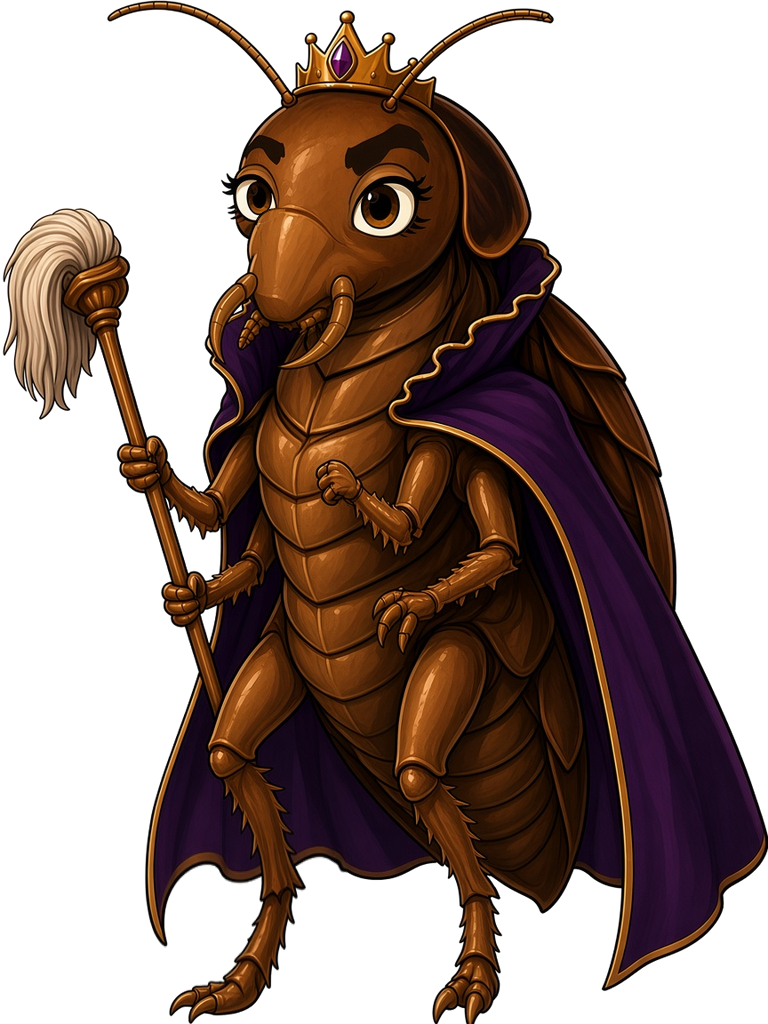
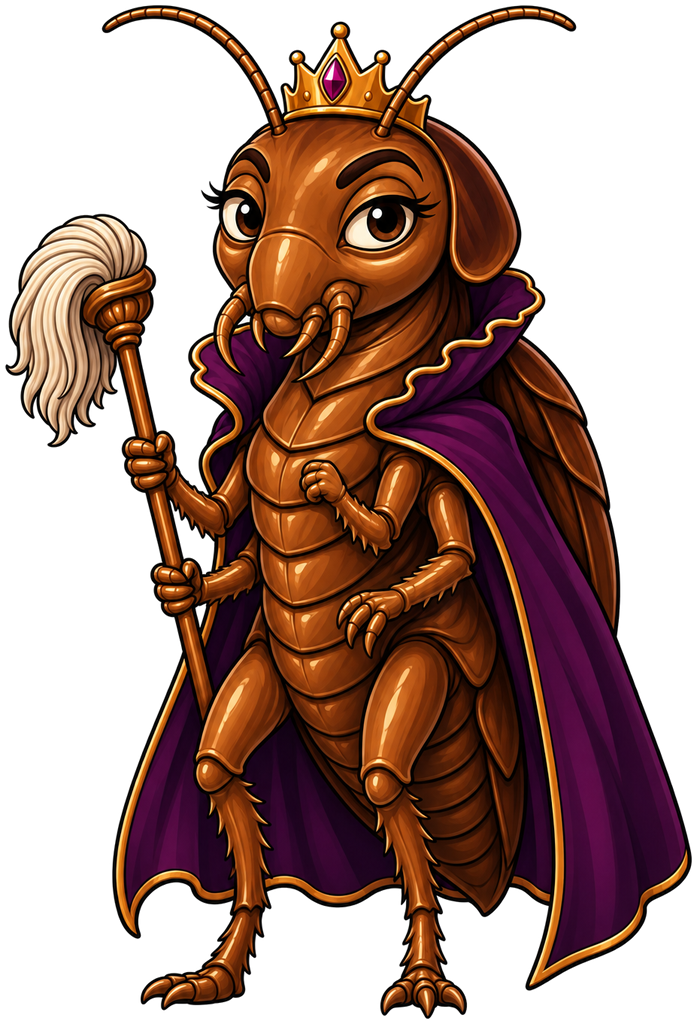
feat(blattaria): regen billboard reine qualité portrait
Billboard in-world refait avec gpt-image-2.6-sunburst (édition 2 réfs :
cellule du portrait d'encart pour le style + ancien body pour la pose) :
contours encrés, chitine brillante, yeux à cils, couronne gemme violette,
cape pourpre/or, balai-sceptre — même ADN que reine-sheet.png.

- reine.png 697×1024 ; planche reine-planche-v2.png 2 cellules 729×1024
  (art 697 + 16 px transparents de chaque côté, cadrage commun)
- frame 1 = mandibules écartées, compositées localement (pas de jitter)
- mandibules only, pas de talk billboard (ROACH_ACTOR inchangé)
- nouveau nom de planche = cache-bust ; ancienne reine-planche.png retirée

diff --git a/src/three/props.ts b/src/three/props.ts
@@ -846,14 +846,14 @@ export function billboardSheet(url: string, frames: number, h: number, aspect: n
  *   Patience (avec / sans ticket) : 0 repos · 1 mâchoire ouverte · 2 soupir (crâne penché)
  */
 /**
- * Reine : cellules 600 × 768 = l'art 576 × 768 centré avec 12 px transparents de chaque côté
- * (la cape et le balai touchaient la couture → le mipmap mélangeait les cellules). Nouveau nom
- * de fichier : l'ancienne `reine-sheet.png` à 3 cellules, gardée en cache par le navigateur avec
- * REINE_FRAMES = 2, affichait 1,5 cellule (une deuxième Reine coupée à droite).
+ * Reine : planche v2 (OpenAI gpt-image-2.6-sunburst, même ADN que le portrait d'encart ;
+ * _briefs/reine/regen-v2). Cellules 729 × 1024 = l'art 697 × 1024 centré avec 16 px transparents
+ * de chaque côté (anti sheet bleed au mipmap). Cadrage commun aux deux cellules (pas de jitter).
+ * Nouveau nom de fichier à chaque refonte : le navigateur garde l'ancienne planche en cache.
  */
-export const REINE_SHEET = `${import.meta.env.BASE_URL}props/ch1/reine-planche.png`;
+export const REINE_SHEET = `${import.meta.env.BASE_URL}props/ch1/reine-planche-v2.png`;
 export const REINE_FRAMES = 2;
-export const REINE_SHEET_ASPECT = 600 / 768;
+export const REINE_SHEET_ASPECT = 729 / 1024;
 export const SCRIBE_SHEET = `${import.meta.env.BASE_URL}props/ch1/scribe-sheet.png`;
 export const SABOT_SHEET = `${import.meta.env.BASE_URL}props/st/sabot-sheet.png`;
 export const PATIENCE_SHEET = `${import.meta.env.BASE_URL}props/st/patience-sheet.png`;
@@ -918,9 +918,9 @@ export const SIEGE_ASPECT = 589 / 768;
 export const SIEGE_CARAPACE_URL = `${import.meta.env.BASE_URL}props/interlude/siege-carapace.png`;
 export const SIEGE_CARAPACE_ASPECT = 610 / 1024;
 
-/** Sa Majesté Blattaria XIV en pied (GenAI, 768 × 1024, _briefs/ch1/genai-fix/cutout.py). */
+/** Sa Majesté Blattaria XIV en pied (GenAI v2 qualité portrait, 697 × 1024, _briefs/ch1/genai-fix/cutout.py). */
 export const REINE_URL = `${import.meta.env.BASE_URL}props/ch1/reine.png`;
-export const REINE_ASPECT = 768 / 1024;
+export const REINE_ASPECT = 697 / 1024;
 /** Frère Élytre, Grand Scribe, en pied (GenAI, 637 × 1024, _briefs/ch1/genai-fix/cutout.py). */
 export const SCRIBE_URL = `${import.meta.env.BASE_URL}props/ch1/scribe.png`;
 export const SCRIBE_ASPECT = 637 / 1024;
